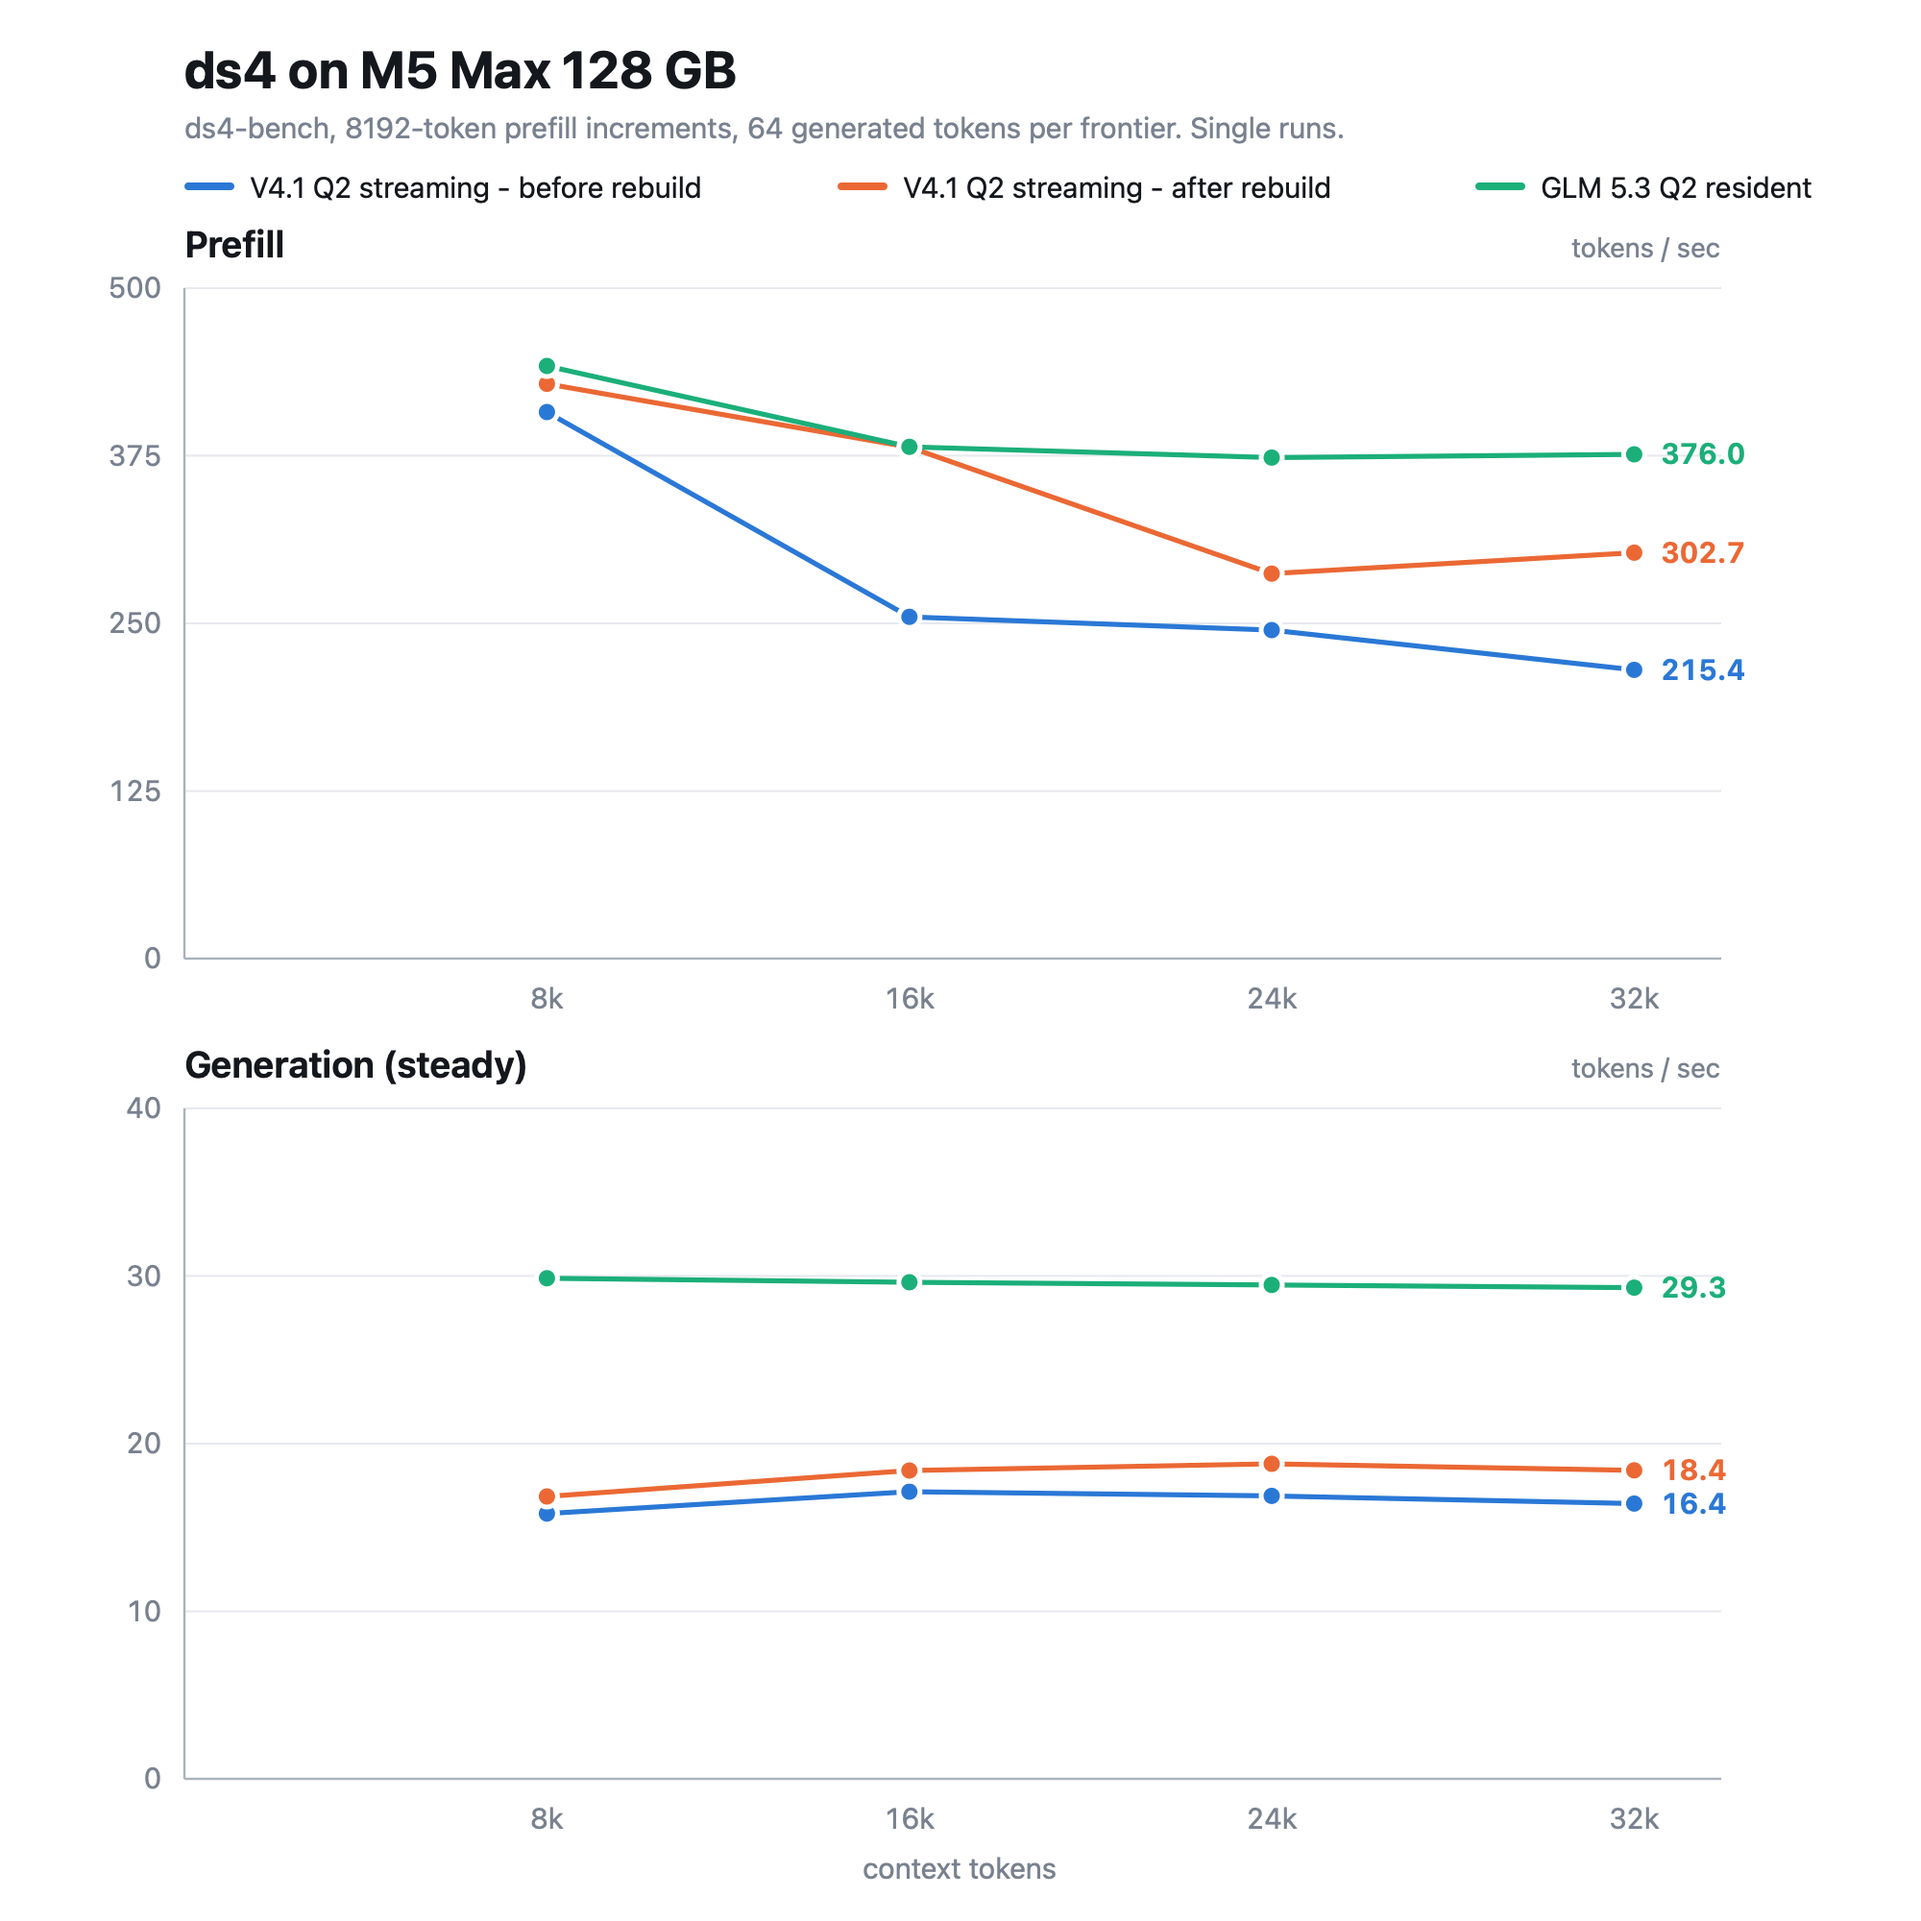
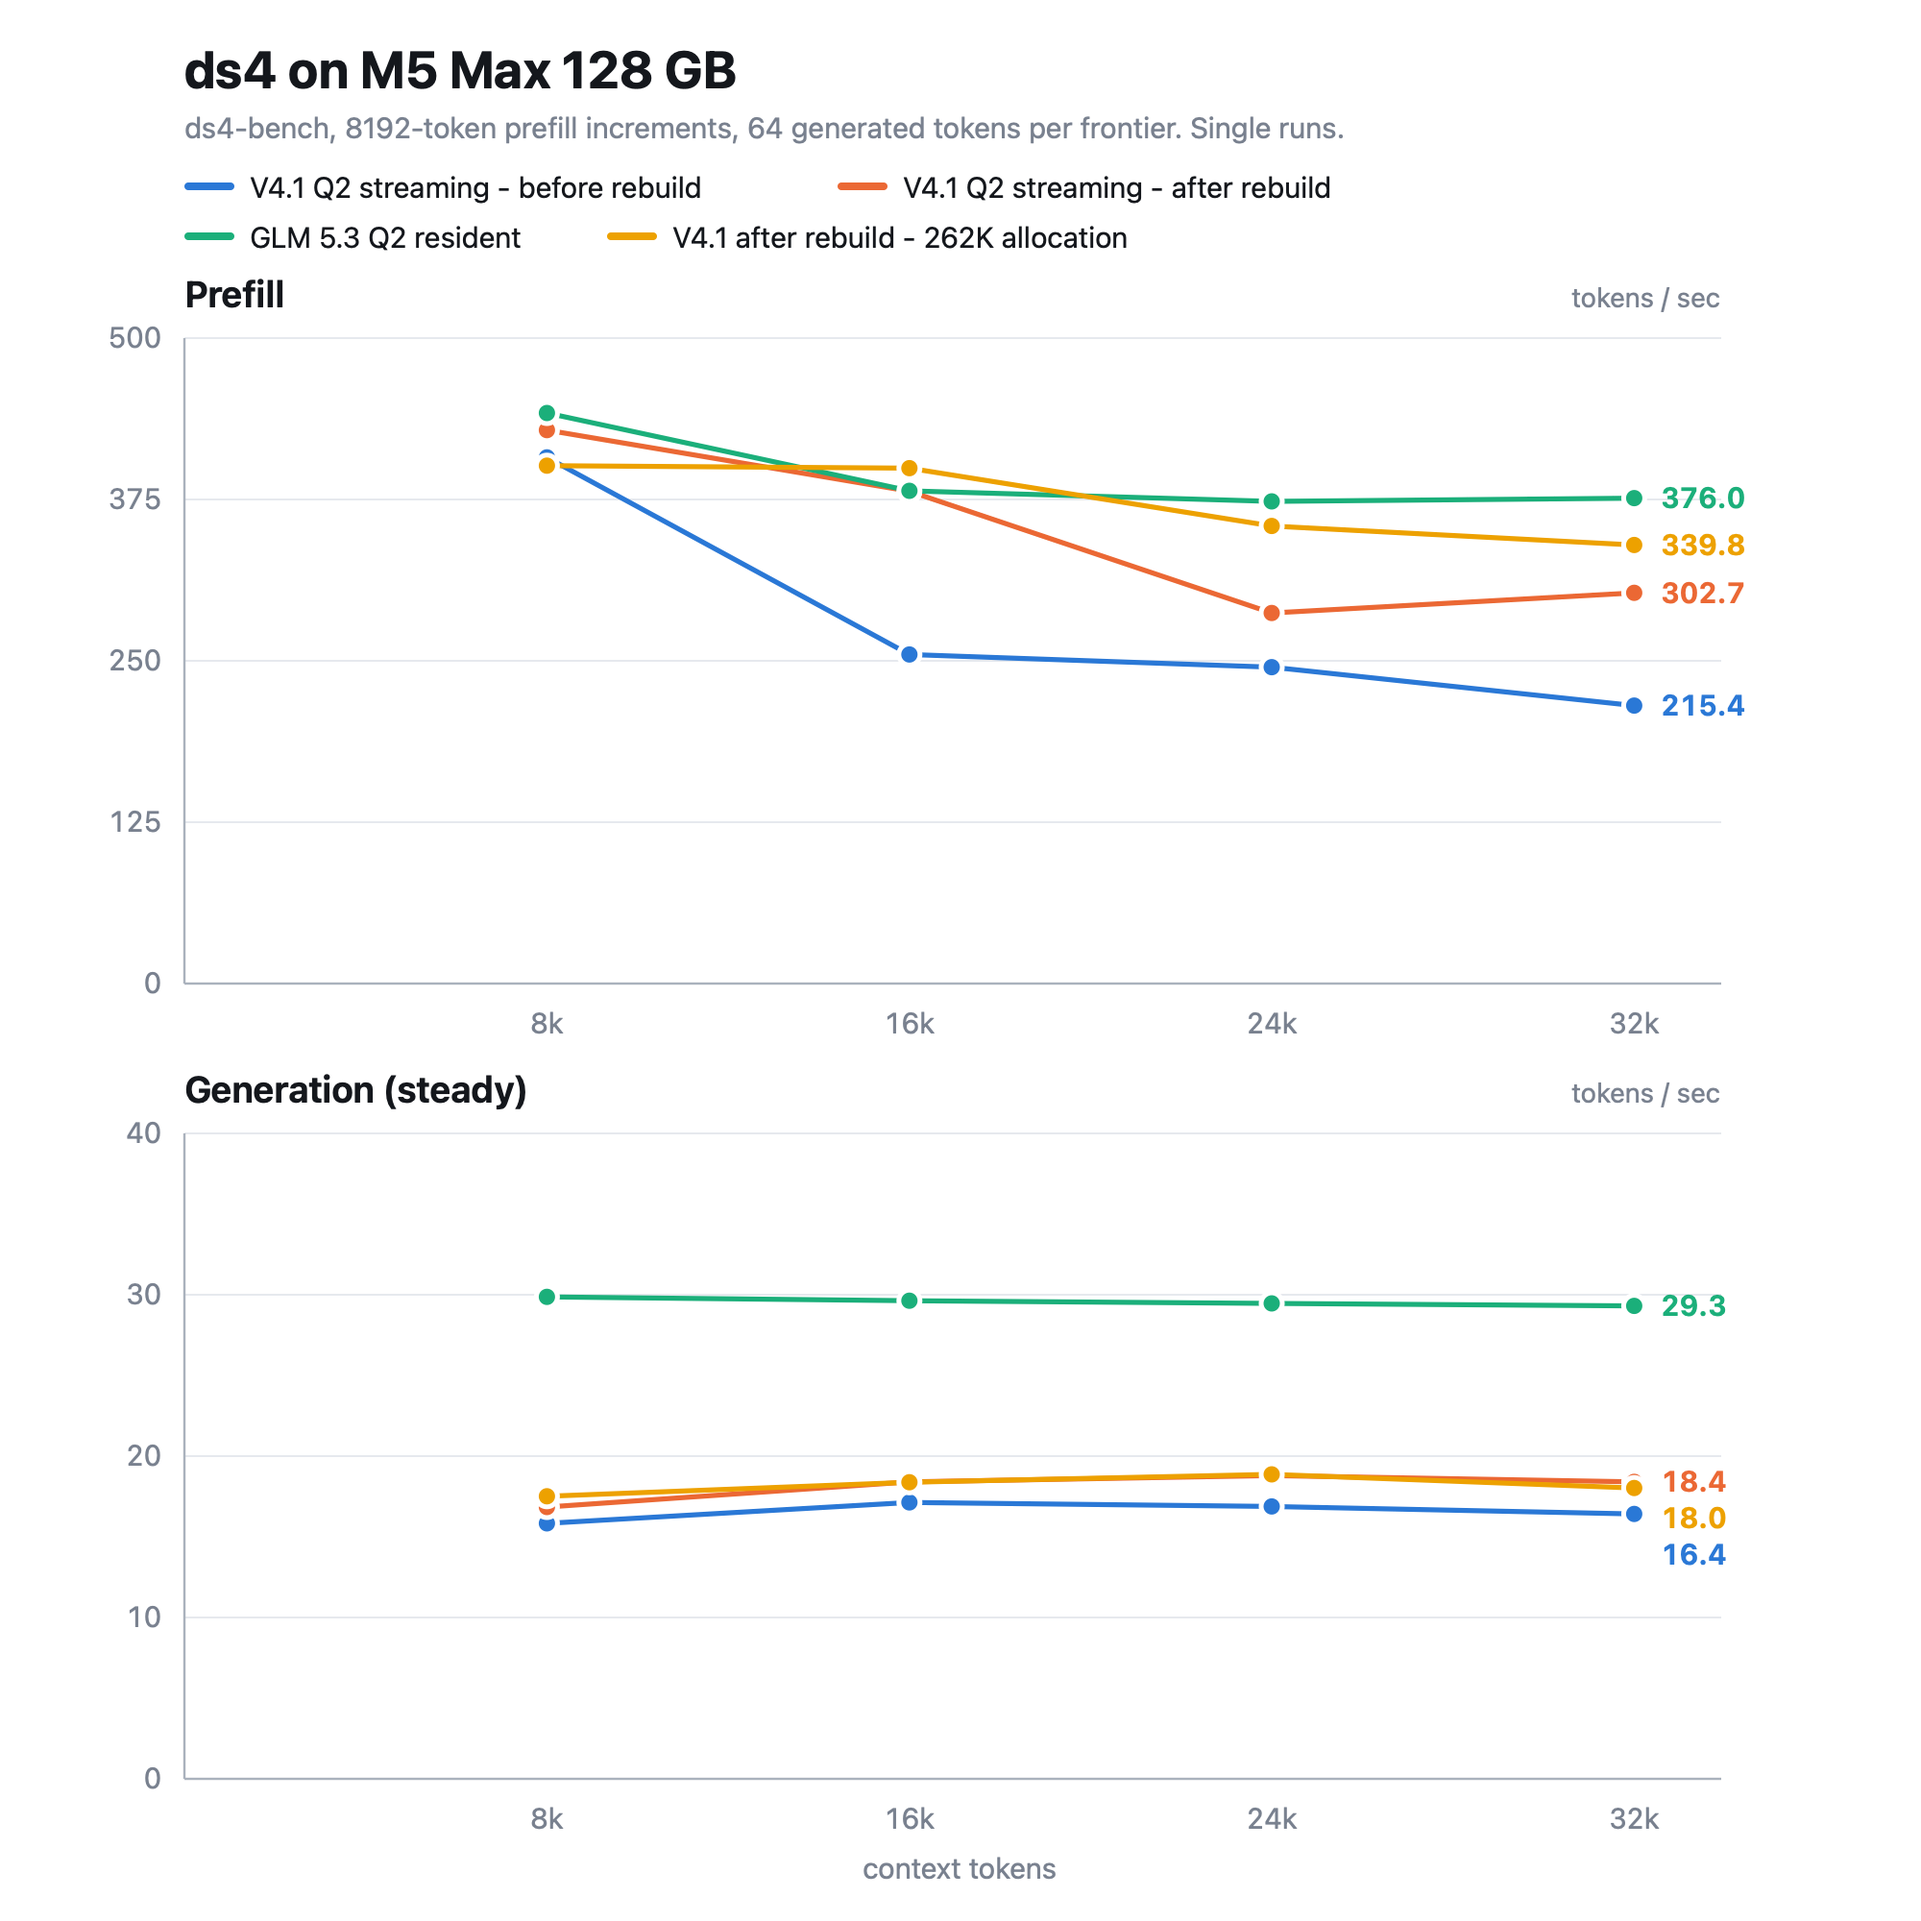
Add the 262K-allocation run to the charts and flag the prefill gain
Fourth series on the comparison chart, and the same run added to the
interactive page's update section and table.

Mark the prefill improvement unconfirmed on both. The model's author ran a
teacher-forced, alternated, repeated test and measured 561 -> 548 t/s at 16K
input, against our +5-50% from two single runs six days apart. His method
controls for what ours did not, so his result is the one to believe. The decode
figure survives: he independently measured +5.5% against our +6-12%.

plot_compare.py: wrap the legend instead of running entries off the right edge,
and spread value labels vertically when series finish close together - four
series made both failures visible.

diff --git a/speed-bench/flash_v41_q2-comparsion.html b/speed-bench/flash_v41_q2-comparsion.html
@@ -17,6 +17,7 @@
     --series-1: #2a78d6;
     --series-2: #eb6834;
     --series-3: #1baf7a;
+    --series-4: #eda100;
     --accent-soft: rgba(42, 120, 214, 0.09);
 
     --step--1: 0.8125rem;
@@ -41,6 +42,7 @@
       --series-1: #3987e5;
       --series-2: #d95926;
       --series-3: #199e70;
+      --series-4: #c98500;
       --accent-soft: rgba(57, 135, 229, 0.14);
     }
   }
@@ -58,6 +60,7 @@
     --series-1: #3987e5;
     --series-2: #d95926;
     --series-3: #199e70;
+    --series-4: #c98500;
     --accent-soft: rgba(57, 135, 229, 0.14);
   }
 
@@ -151,10 +154,12 @@
   .s1 { stroke: var(--series-1); }
   .s2 { stroke: var(--series-2); }
   .s3 { stroke: var(--series-3); }
+  .s4 { stroke: var(--series-4); }
   .line { fill: none; stroke-width: 2; stroke-linejoin: round; stroke-linecap: round; }
   .dot1 { fill: var(--series-1); }
   .dot2 { fill: var(--series-2); }
   .dot3 { fill: var(--series-3); }
+  .dot4 { fill: var(--series-4); }
   .dot { stroke: var(--surface); stroke-width: 2; }
   .hit { fill: transparent; cursor: pointer; }
 
@@ -323,9 +328,9 @@
       frontier, so the runs compare directly.
     </p>
     <div class="ratios">
-      <div class="ratio r2"><b>+6–12%</b><span>generation, after rebuild</span></div>
-      <div class="ratio r1"><b>+5–50%</b><span>prefill, after rebuild</span></div>
+      <div class="ratio r2"><b>+6–12%</b><span>generation — independently confirmed at +5.5%</span></div>
       <div class="ratio r3"><b>−7–13%</b><span>first-token latency</span></div>
+      <div class="ratio r1"><b>+5–50%</b><span>prefill — <strong>unconfirmed</strong>, see below</span></div>
     </div>
     <div class="legend" id="legend2"></div>
     <div class="charts">
@@ -358,12 +363,24 @@
         </p>
       </div>
       <div class="note">
-        <h3>Prefill: Metal tiling, not Engram.</h3>
+        <h3>Prefill: probably not real.</h3>
         <p>
-          Engram cannot explain a 50% prefill gain. Two commits in the same range rework
-          prefill tile selection, and the uneven per-frontier gains look like tile thresholds
-          landing differently per shape. At 32K the penalty against the resident baseline falls
-          from 2.6× to 1.8×.
+          Engram cannot explain a 50% gain, and attributing it to the Metal tiling commits was
+          only ever a guess from commit titles. The model's author since ran a
+          <strong>teacher-forced, alternated, repeated</strong> test and measured 561 → 548 t/s
+          — flat to slightly lower. His method controls for everything these two single runs
+          did not, so treat the prefill gain as <strong>unconfirmed</strong>.
+        </p>
+      </div>
+      <div class="note">
+        <h3>Context allocation is nearly free.</h3>
+        <p>
+          Re-running the same 8K–32K frontiers at <code>--ctx-alloc 262208</code> instead of
+          32833 cost only 2.5% of the expert cache (81.51 → 79.51 GiB) and no prefill at all —
+          401/399/354/340 t/s against 429/381/287/303, all inside run-to-run noise. An earlier
+          projection of ~50 GiB of context buffers at 262K was wrong; the real figure is
+          8.80 GiB, because the buffer growth seen between 8K and 32K was mostly
+          <code>prefill_cap</code> doubling, not context scaling.
         </p>
       </div>
       <div class="note">
@@ -519,7 +536,10 @@
       gen: [[8192,16.85],[16384,18.40],[24576,18.80],[32768,18.41]] },
     { label: "GLM 5.3 Q2 — resident", cls: 3,
       pre: [[8192,442.02],[16384,381.68],[24576,373.58],[32768,376.03]],
-      gen: [[8192,29.87],[16384,29.63],[24576,29.47],[32768,29.31]] }
+      gen: [[8192,29.87],[16384,29.63],[24576,29.47],[32768,29.31]] },
+    { label: "V4.1 after rebuild — 262K allocation", cls: 4,
+      pre: [[8192,401.18],[16384,399.30],[24576,354.48],[32768,339.77]],
+      gen: [[8192,17.51],[16384,18.38],[24576,18.87],[32768,18.02]] }
   ];
 
   const legend2 = document.getElementById("legend2");
@@ -613,6 +633,11 @@
     ["d", 16384, 381.39, 18.40, "684.96", 1.5],
     ["d", 24576, 287.12, 18.80, "787.43", 2.0],
     ["d", 32768, 302.68, 18.41, "376.27", 1.8],
+    ["grp", "V4.1 Q2 streaming — same frontiers, 262K allocation"],
+    ["d", 8192, 401.18, 17.51, "743.00", 1.7],
+    ["d", 16384, 399.30, 18.38, "632.97", 1.4],
+    ["d", 24576, 354.48, 18.87, "898.05", 1.6],
+    ["d", 32768, 339.77, 18.02, "411.52", 1.6],
     ["grp", "GLM 5.3 Flash Q2 — resident, for contrast"],
     ["b", 8192, 442.02, 29.87, "99.36", null],
     ["b", 16384, 381.68, 29.63, "34.59", null],

diff --git a/speed-bench/plot_compare.py b/speed-bench/plot_compare.py
@@ -83,12 +83,24 @@ def panel(out, series, labels, idx, y0, y1, x_max, title, unit):
         out.append(f'<polyline class="line" stroke="{SERIES[n]}" points="{pts}"/>')
         for r in rows:
             out.append(f'<circle cx="{sx(r[0]):.1f}" cy="{sy(r[idx]):.1f}" r="5.5" fill="{SERIES[n]}" stroke="#ffffff" stroke-width="2.5"/>')
-        # label the last point in the right margin so identity never rests on
-        # colour alone, and labels cannot collide with each other or the lines
-        last = rows[-1]
+
+    # Label the last point of each series in the right margin, so identity never
+    # rests on colour alone. Series whose final values are close would overprint
+    # each other, so spread them apart vertically first.
+    labels_at = sorted(
+        ((sy(rows[-1][idx]), sx(rows[-1][0]), rows[-1][idx], SERIES[n])
+         for n, rows in enumerate(series)),
+        key=lambda t: t[0],
+    )
+    MIN_GAP = 19.0
+    placed = []
+    for y, x, value, colour in labels_at:
+        if placed and y - placed[-1][0] < MIN_GAP:
+            y = placed[-1][0] + MIN_GAP
+        placed.append((y, x, value, colour))
+    for y, x, value, colour in placed:
         out.append(
-            f'<text class="val" x="{sx(last[0])+14:.1f}" y="{sy(last[idx])+5:.1f}" '
-            f'fill="{SERIES[n]}">{last[idx]:.1f}</text>'
+            f'<text class="val" x="{x+14:.1f}" y="{y+5:.1f}" fill="{colour}">{value:.1f}</text>'
         )
 
 
@@ -131,16 +143,21 @@ def main():
     if args.subtitle:
         out.append(f'<text class="sub" x="{PAD_L}" y="72">{esc(args.subtitle)}</text>')
 
-    lx = PAD_L
+    # Wrap the legend rather than letting entries run off the right edge.
+    lx, ly, rows_used = PAD_L, 95, 1
     for n, lab in enumerate(labels):
-        out.append(f'<rect x="{lx}" y="95" width="26" height="4" rx="2" fill="{SERIES[n]}"/>')
-        out.append(f'<text class="leg" x="{lx+34}" y="103">{esc(lab)}</text>')
-        lx += 34 + len(lab) * 8 + 34
+        entry_w = 34 + len(lab) * 8 + 34
+        if lx > PAD_L and lx + entry_w > W - PAD_R + 34:
+            lx, ly, rows_used = PAD_L, ly + 26, rows_used + 1
+        out.append(f'<rect x="{lx}" y="{ly}" width="26" height="4" rx="2" fill="{SERIES[n]}"/>')
+        out.append(f'<text class="leg" x="{lx+34}" y="{ly+8}">{esc(lab)}</text>')
+        lx += entry_w
 
-    avail = H - PAD_T - PAD_B - PANEL_GAP
+    pad_t = PAD_T + (rows_used - 1) * 26
+    avail = H - pad_t - PAD_B - PANEL_GAP
     ph = avail / 2
-    panel(out, series, labels, 1, PAD_T, PAD_T + ph, x_max, "Prefill", "tokens / sec")
-    top2 = PAD_T + ph + PANEL_GAP
+    panel(out, series, labels, 1, pad_t, pad_t + ph, x_max, "Prefill", "tokens / sec")
+    top2 = pad_t + ph + PANEL_GAP
     panel(out, series, labels, 2, top2, top2 + ph, x_max, "Generation (steady)", "tokens / sec")
 
     out.append(f'<text class="sub" x="{W//2}" y="{H-22}" text-anchor="middle">context tokens</text>')
